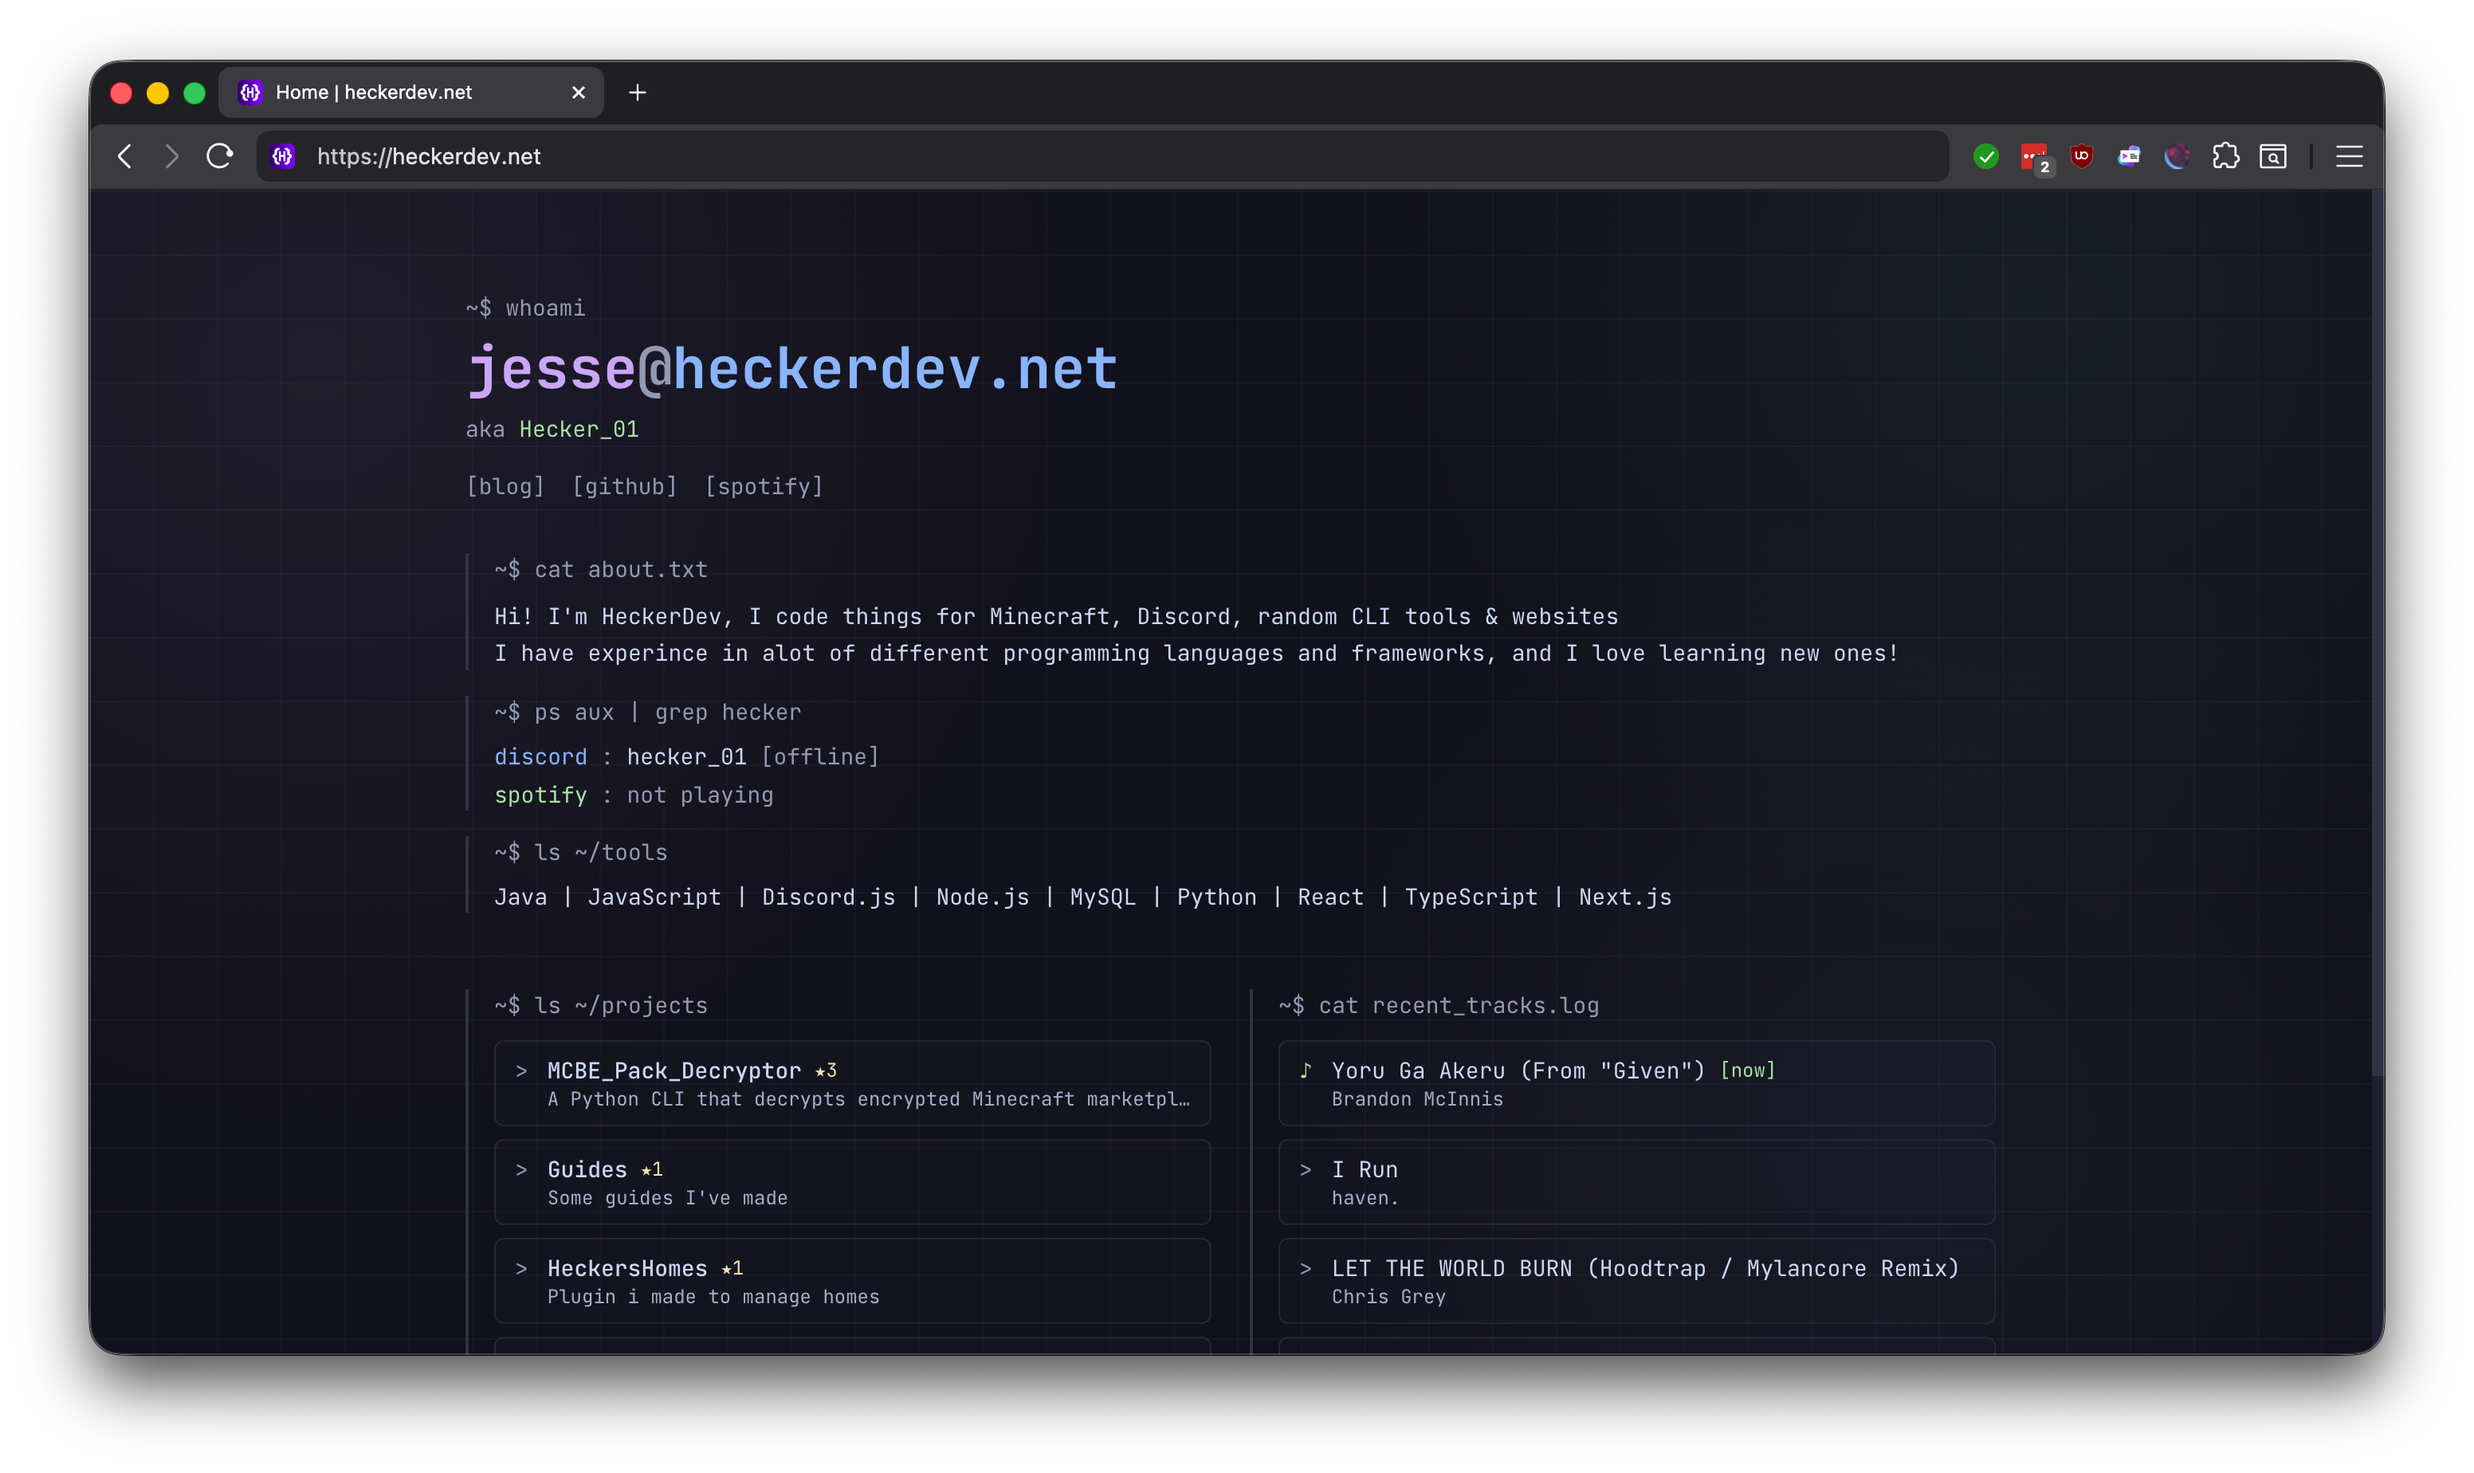
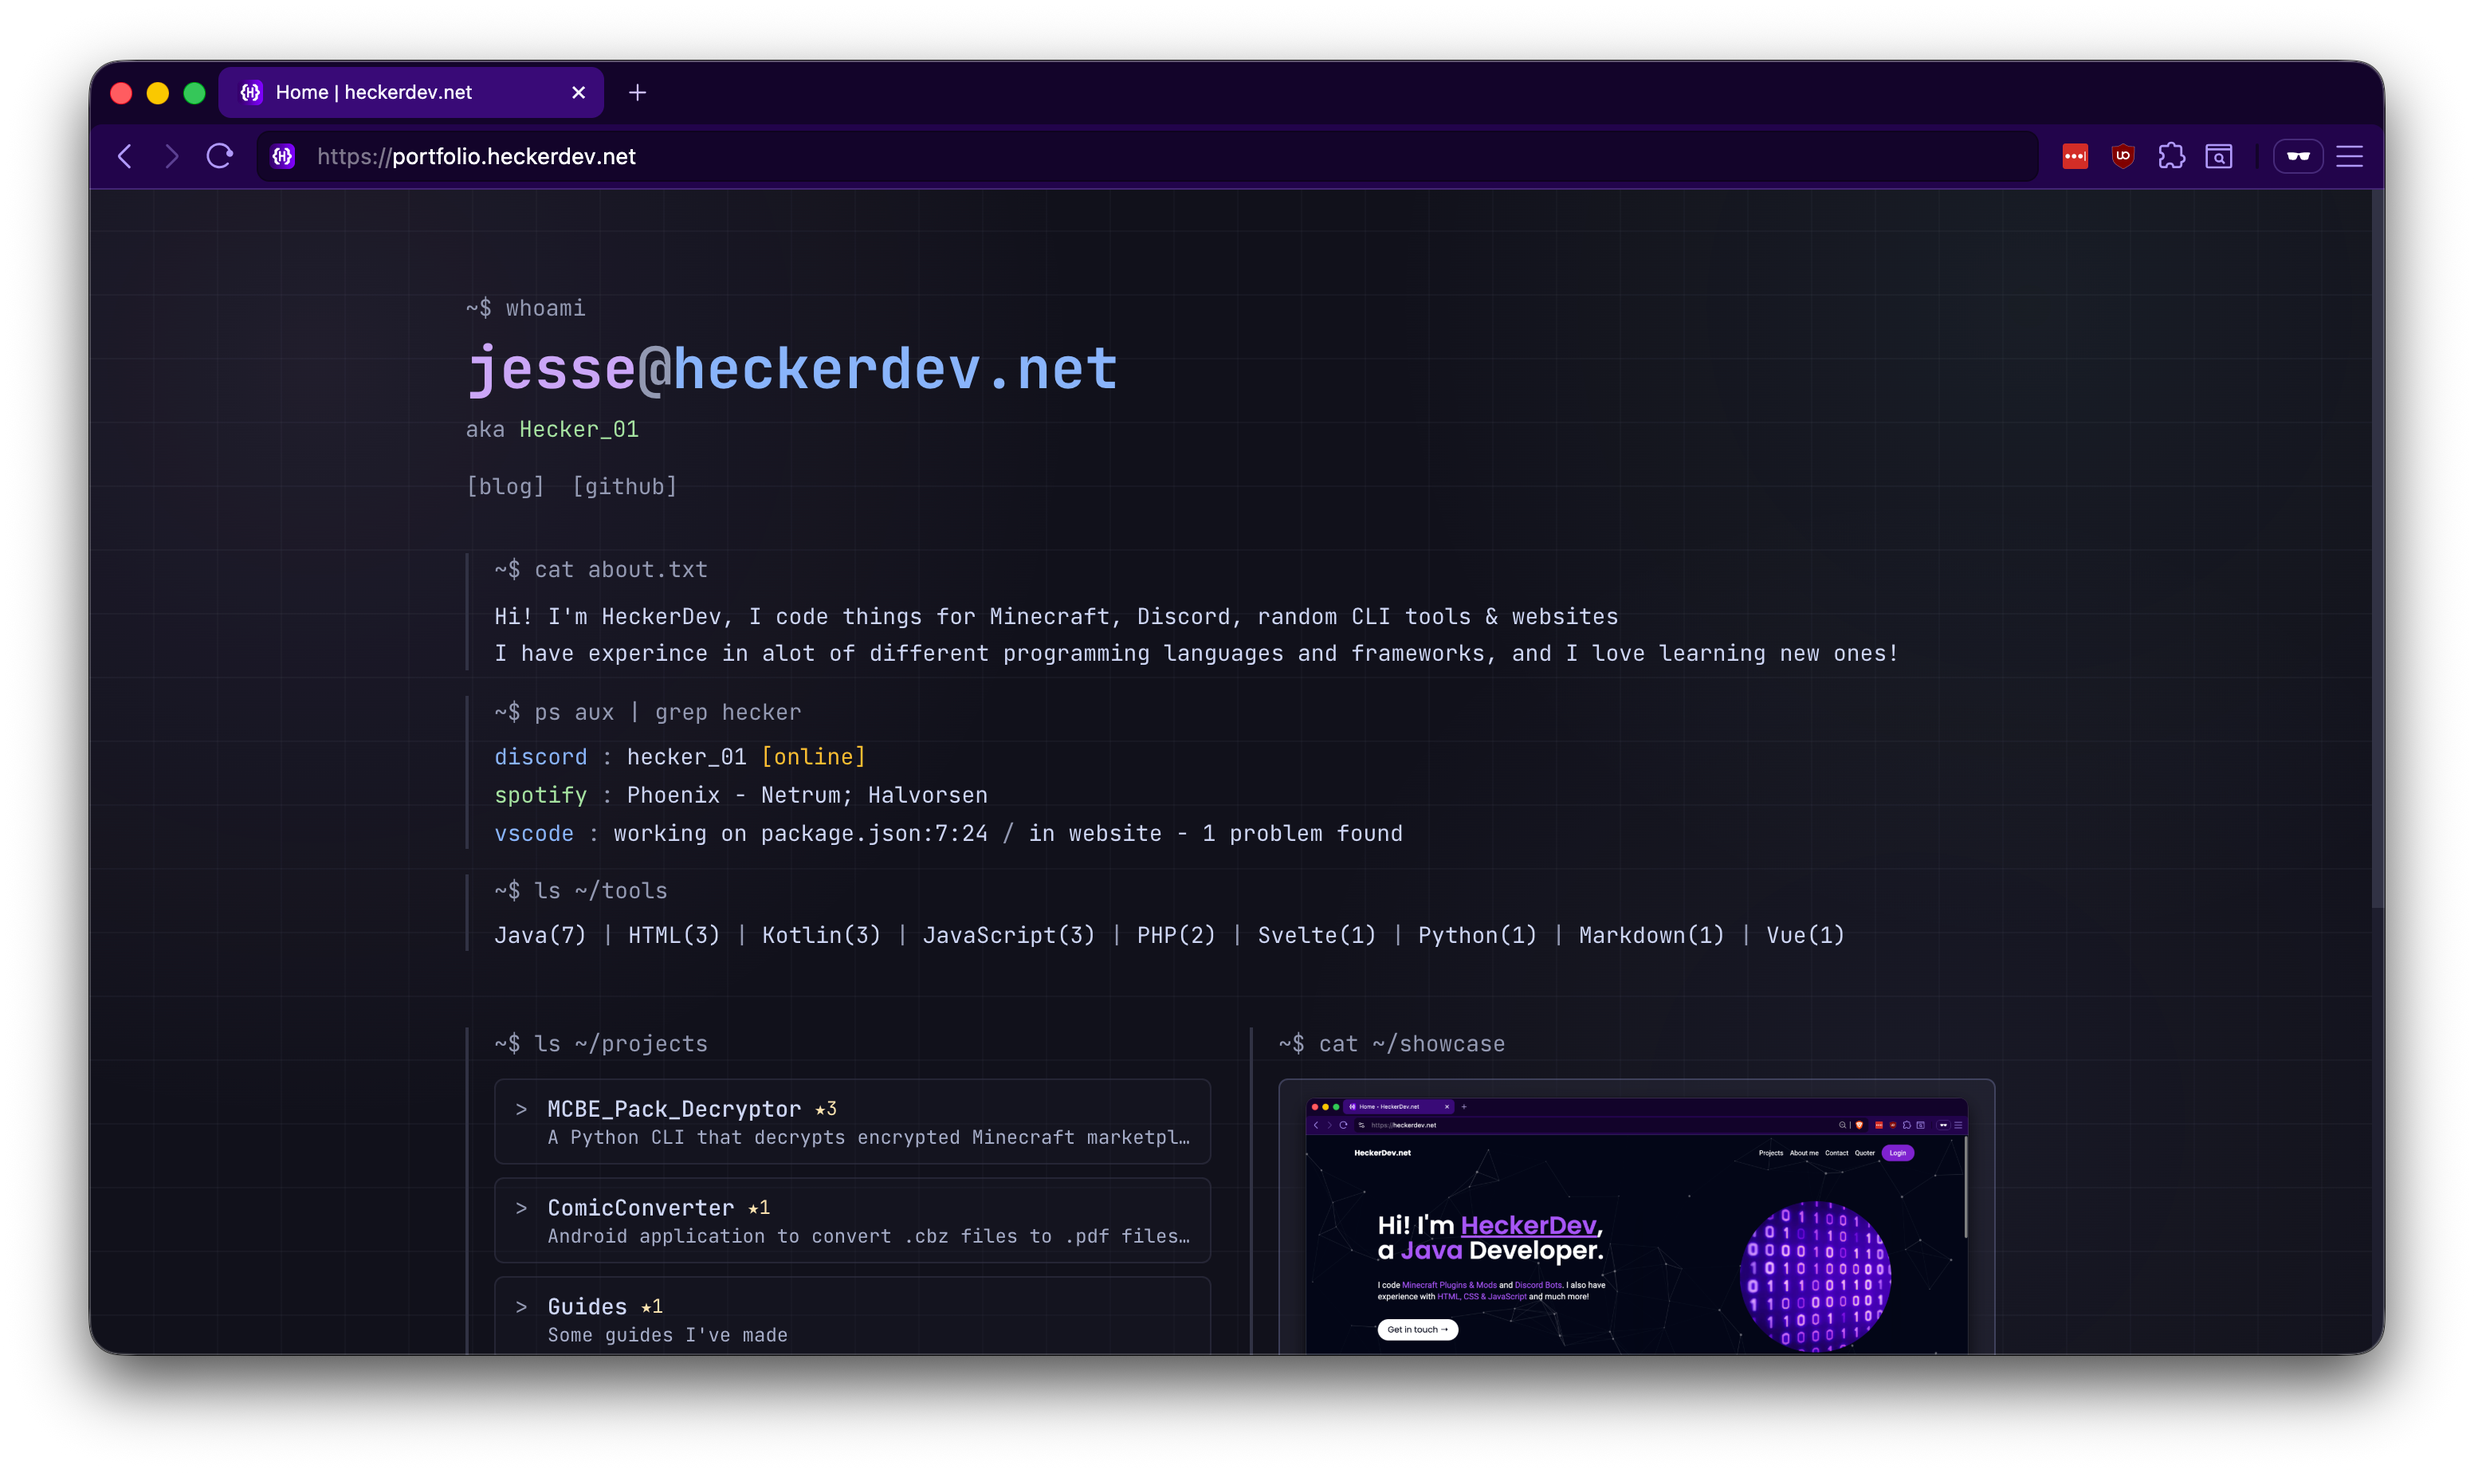
FIx github service and update screenshots

diff --git a/src/services/githubService.js b/src/services/githubService.js
@@ -56,66 +56,72 @@ export const getAllReposWithLanguages = async () => {
 export const getContributionData = async () => {
   const weeks = 53;
   const today = new Date();
-  const contributionMap = new Map();
-
-  // Initialize all days in the range with 0 contributions
-  for (let i = weeks * 7 - 1; i >= 0; i--) {
-    const date = new Date(today);
-    date.setDate(date.getDate() - i);
-    const dateStr = date.toISOString().split("T")[0];
-    contributionMap.set(dateStr, 0);
-  }
+  const year = today.getFullYear();
 
   try {
-    // Fetch public events (last 90 days, up to 300 events)
-    const responses = await Promise.all([
-      fetch(
-        `https://api.github.com/users/${GITHUB_USERNAME}/events/public?per_page=100&page=1`
-      ),
-      fetch(
-        `https://api.github.com/users/${GITHUB_USERNAME}/events/public?per_page=100&page=2`
-      ),
-      fetch(
-        `https://api.github.com/users/${GITHUB_USERNAME}/events/public?per_page=100&page=3`
-      ),
-    ]);
+    // Use GitHub's contribution calendar API (used by github skyline)
+    const response = await fetch(
+      `https://github-contributions-api.jogruber.de/v4/${GITHUB_USERNAME}?y=last`
+    );
 
-    const allEvents = [];
-    for (const res of responses) {
-      if (res.ok) {
-        const events = await res.json();
-        allEvents.push(...events);
-      }
+    if (!response.ok) {
+      throw new Error("Failed to fetch contribution data");
     }
 
-    // Count events per day
-    for (const event of allEvents) {
-      const dateStr = event.created_at.split("T")[0];
-      if (contributionMap.has(dateStr)) {
-        contributionMap.set(dateStr, contributionMap.get(dateStr) + 1);
-      }
+    const data = await response.json();
+
+    // Extract contributions from the response
+    const contributions = [];
+
+    if (data.contributions) {
+      data.contributions.forEach((contribution) => {
+        contributions.push({
+          date: contribution.date,
+          count: contribution.count,
+        });
+      });
     }
+
+    // If we got contributions, return them
+    if (contributions.length > 0) {
+      // Ensure we have exactly 53 weeks (371 days) of data
+      const targetDays = weeks * 7;
+      const startDate = new Date(today);
+      startDate.setDate(startDate.getDate() - targetDays + 1);
+
+      const fullContributions = [];
+      for (let i = 0; i < targetDays; i++) {
+        const date = new Date(startDate);
+        date.setDate(date.getDate() + i);
+        const dateStr = date.toISOString().split("T")[0];
+
+        const existing = contributions.find((c) => c.date === dateStr);
+        fullContributions.push({
+          date: dateStr,
+          count: existing ? existing.count : 0,
+        });
+      }
+
+      return fullContributions;
+    }
+
+    throw new Error("No contributions data available");
   } catch (error) {
     console.error("Error fetching contribution data:", error);
-    // Return empty contributions on error
-    return Array.from(contributionMap.entries()).map(([date, count]) => ({
-      date,
-      count,
-    }));
+
+    // Fallback: Return empty year of data
+    const contributionMap = new Map();
+    for (let i = weeks * 7 - 1; i >= 0; i--) {
+      const date = new Date(today);
+      date.setDate(date.getDate() - i);
+      const dateStr = date.toISOString().split("T")[0];
+      contributionMap.set(dateStr, 0);
+    }
+
+    return Array.from(contributionMap.entries())
+      .sort((a, b) => a[0].localeCompare(b[0]))
+      .map(([date, count]) => ({ date, count }));
   }
-
-  // Convert to array format for the grid
-  const contributions = [];
-  const sortedDates = Array.from(contributionMap.keys()).sort();
-
-  for (const date of sortedDates) {
-    contributions.push({
-      date,
-      count: contributionMap.get(date),
-    });
-  }
-
-  return contributions;
 };
 
 export const getContributionLevel = (count) => {
@@ -124,4 +130,9 @@ export const getContributionLevel = (count) => {
   if (count <= 5) return 2;
   if (count <= 8) return 3;
   return 4;
+};
+
+export const getGitHubContributionUrl = (date) => {
+  // Format: https://github.com/USERNAME?tab=overview&from=YYYY-MM-DD&to=YYYY-MM-DD
+  return `https://github.com/${GITHUB_USERNAME}?tab=overview&from=${date}&to=${date}`;
 };

diff --git a/src/pages/Home.vue b/src/pages/Home.vue
@@ -6,6 +6,7 @@ import {
   getAllReposWithLanguages,
   getContributionData,
   getContributionLevel,
+  getGitHubContributionUrl,
 } from "@/services/githubService";
 
 const discordStatusColor = computed(() => lanyardData.discordStatusColor);
@@ -141,7 +142,7 @@ const monthLabels = computed(() => {
   });
 
   return months;
-})();
+});
 
 onMounted(() => {
   fetchProjects();
@@ -518,23 +519,30 @@ onBeforeUnmount(() => {
                 :key="weekIndex"
                 class="flex flex-col gap-[3px] md:gap-1 md:flex-1"
               >
-                <div
-                  v-for="(day, dayIndex) in week"
-                  :key="dayIndex"
-                  class="w-[10px] h-[10px] md:w-auto md:h-auto md:aspect-square rounded-sm"
-                  :class="[
-                    getContributionLevel(day.count) === 0
-                      ? 'bg-catppuccin-surface/50'
-                      : getContributionLevel(day.count) === 1
-                      ? 'bg-catppuccin-green/30'
-                      : getContributionLevel(day.count) === 2
-                      ? 'bg-catppuccin-green/50'
-                      : getContributionLevel(day.count) === 3
-                      ? 'bg-catppuccin-green/70'
-                      : 'bg-catppuccin-green',
-                  ]"
-                  :title="`${day.date}: ${day.count} contributions`"
-                ></div>
+                <template v-for="(day, dayIndex) in week" :key="dayIndex">
+                  <a
+                    v-if="day.count > 0"
+                    :href="getGitHubContributionUrl(day.date)"
+                    target="_blank"
+                    rel="noopener noreferrer"
+                    class="w-[10px] h-[10px] md:w-auto md:h-auto md:aspect-square rounded-sm transition-all hover:ring-1 hover:ring-catppuccin-green hover:scale-110 cursor-pointer"
+                    :class="[
+                      getContributionLevel(day.count) === 1
+                        ? 'bg-catppuccin-green/30 hover:bg-catppuccin-green/40'
+                        : getContributionLevel(day.count) === 2
+                        ? 'bg-catppuccin-green/50 hover:bg-catppuccin-green/60'
+                        : getContributionLevel(day.count) === 3
+                        ? 'bg-catppuccin-green/70 hover:bg-catppuccin-green/80'
+                        : 'bg-catppuccin-green hover:bg-catppuccin-green',
+                    ]"
+                    :title="`${day.date}: ${day.count} contributions - Click to view on GitHub`"
+                  ></a>
+                  <div
+                    v-else
+                    class="w-[10px] h-[10px] md:w-auto md:h-auto md:aspect-square rounded-sm bg-catppuccin-surface/50"
+                    :title="`${day.date}: ${day.count} contributions`"
+                  ></div>
+                </template>
               </div>
             </div>
           </div>

diff --git a/src/services/showcaseService.js b/src/services/showcaseService.js
@@ -27,7 +27,7 @@ export const showcaseItems = [
   {
     id: 2,
     name: "Main Website",
-    description: "My main website built with sveltekit and tailwindcss.",
+    description: "My main website built with SvelteKit and Tailwind CSS.",
     link: "https://heckerdev.net",
     screenshot: "/screenshot-heckerdev.png",
     accentColor: "lavender",
